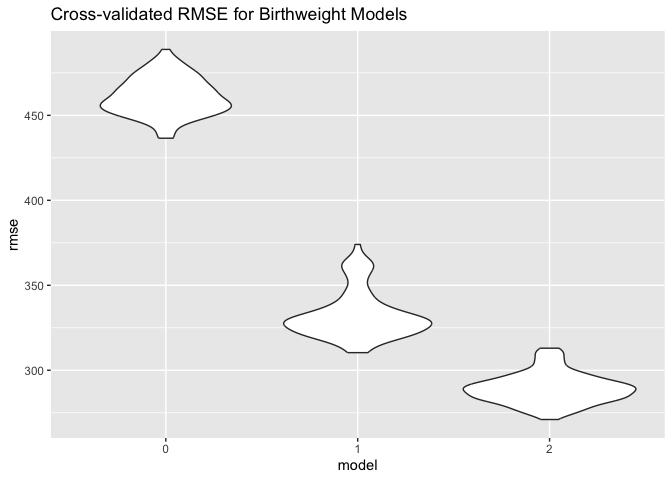
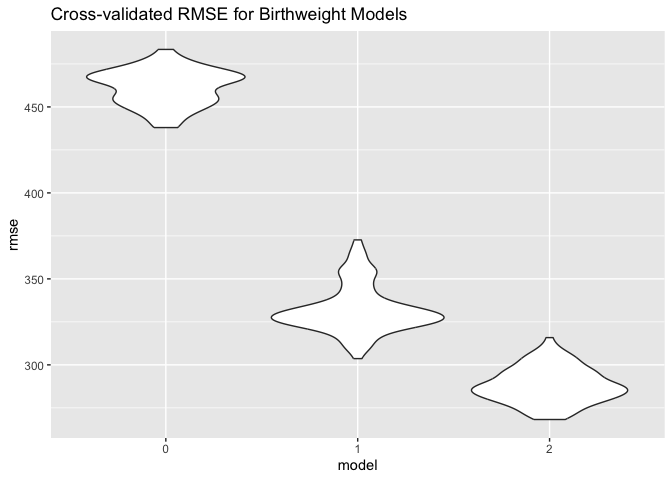
added a little more detail

diff --git a/p8105_hw6_mt3866.md b/p8105_hw6_mt3866.md
@@ -240,7 +240,7 @@ Description: The bootstrap distribution of Beta 1/Beta 2 is left skewed,
 while the bootstrap distribution of R squared is in the shape of a bell
 curve.
 
-Compute 95% CI
+Identify quantiles, compute 95% CI
 
 ``` r
 bootstrap_results |>
@@ -266,7 +266,7 @@ bootstrap_results |>
     ## # A tibble: 1 × 2
     ##   lower upper
     ##   <dbl> <dbl>
-    ## 1 -276. -124.
+    ## 1 -278. -126.
 
 ### Problem 3
 
